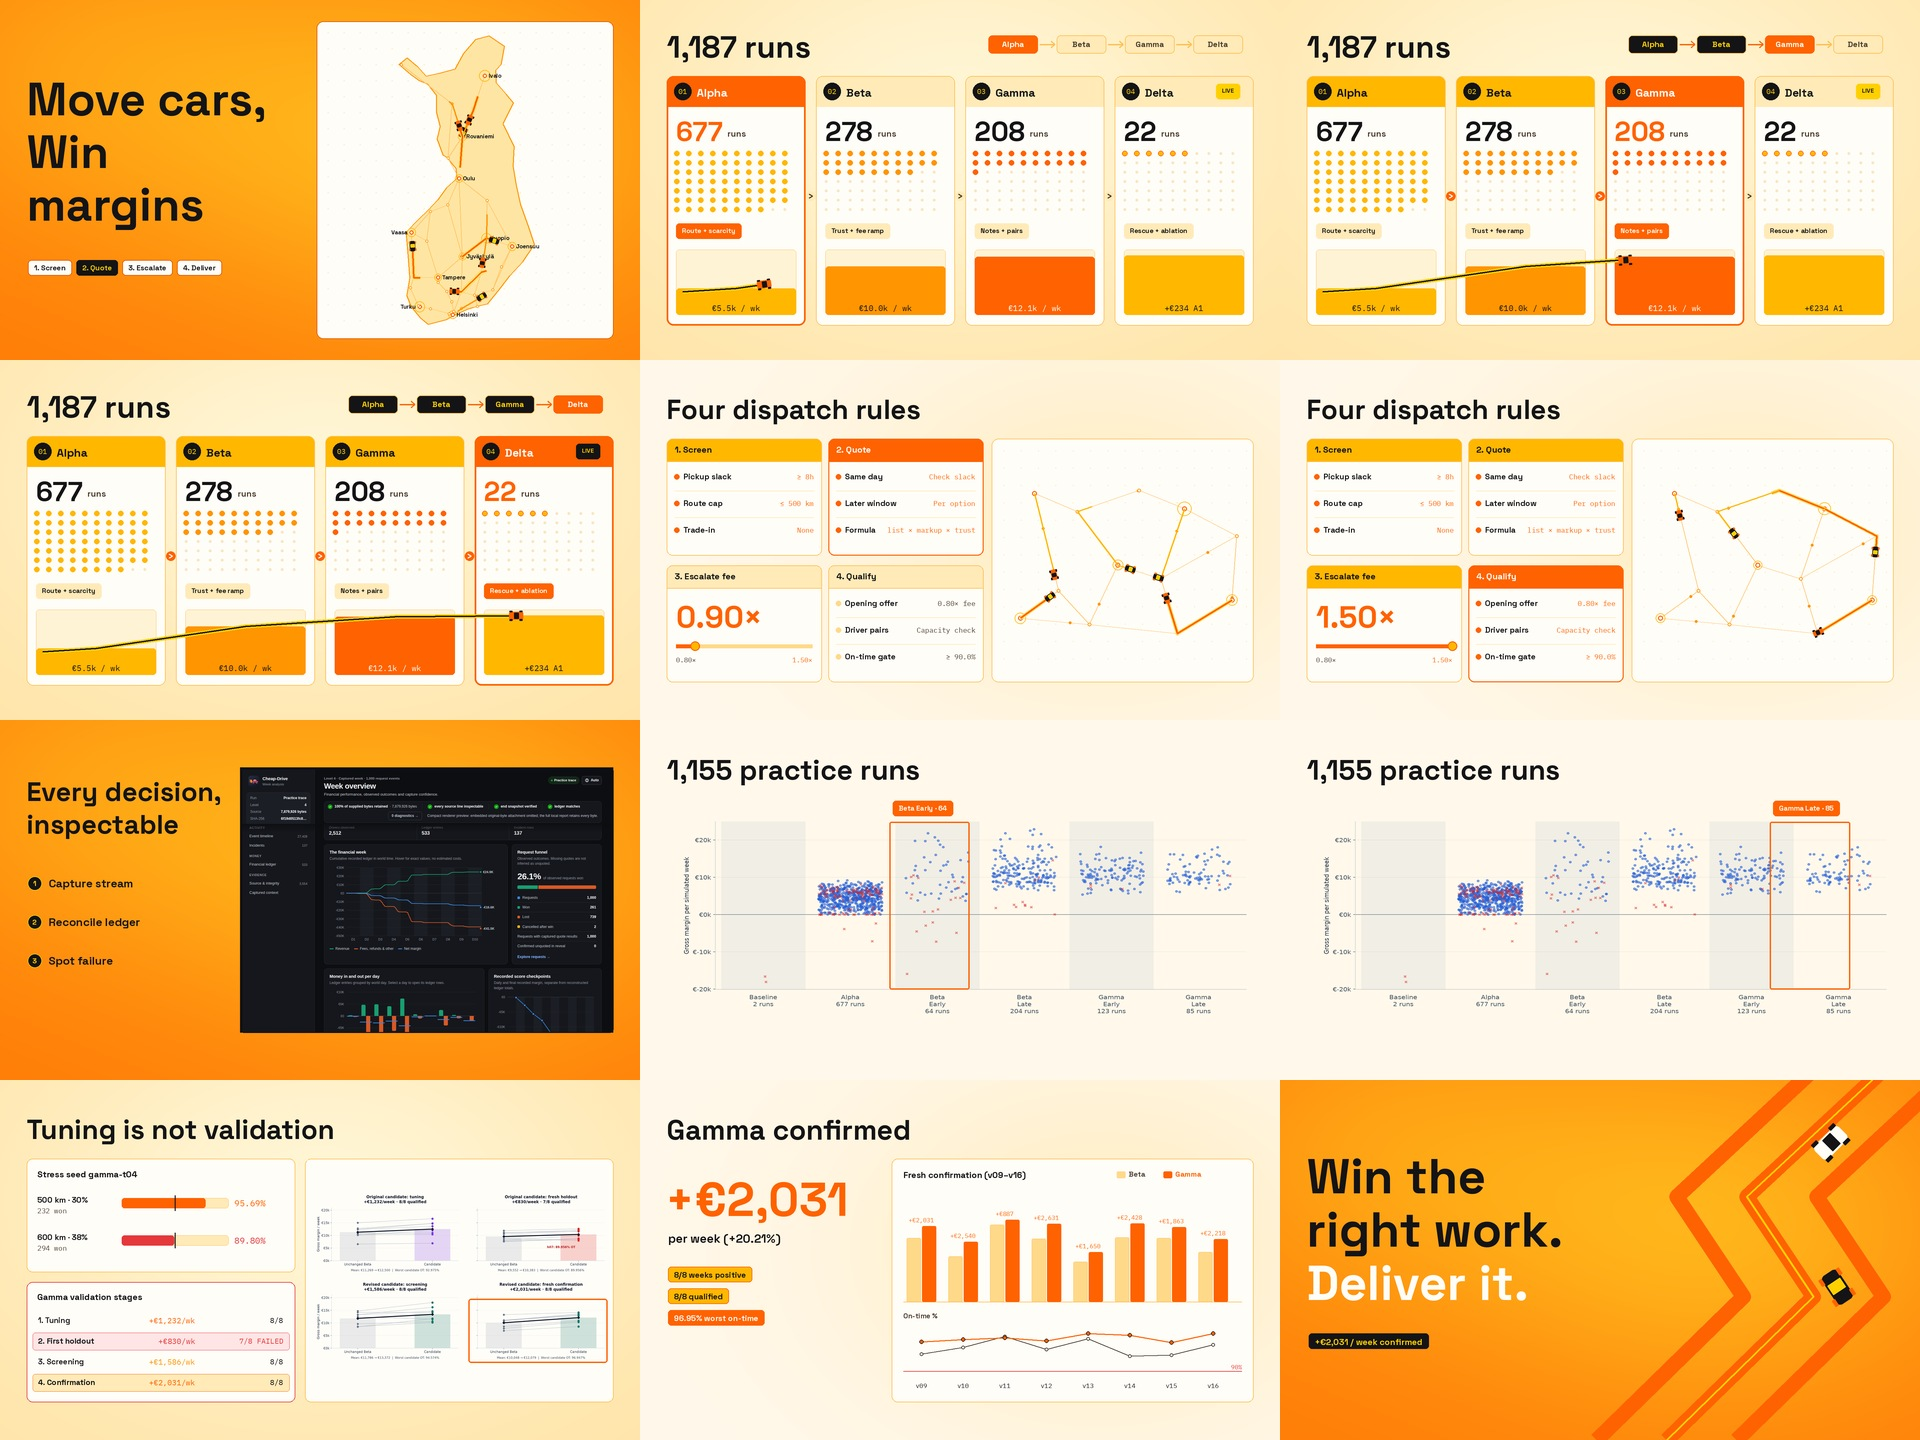
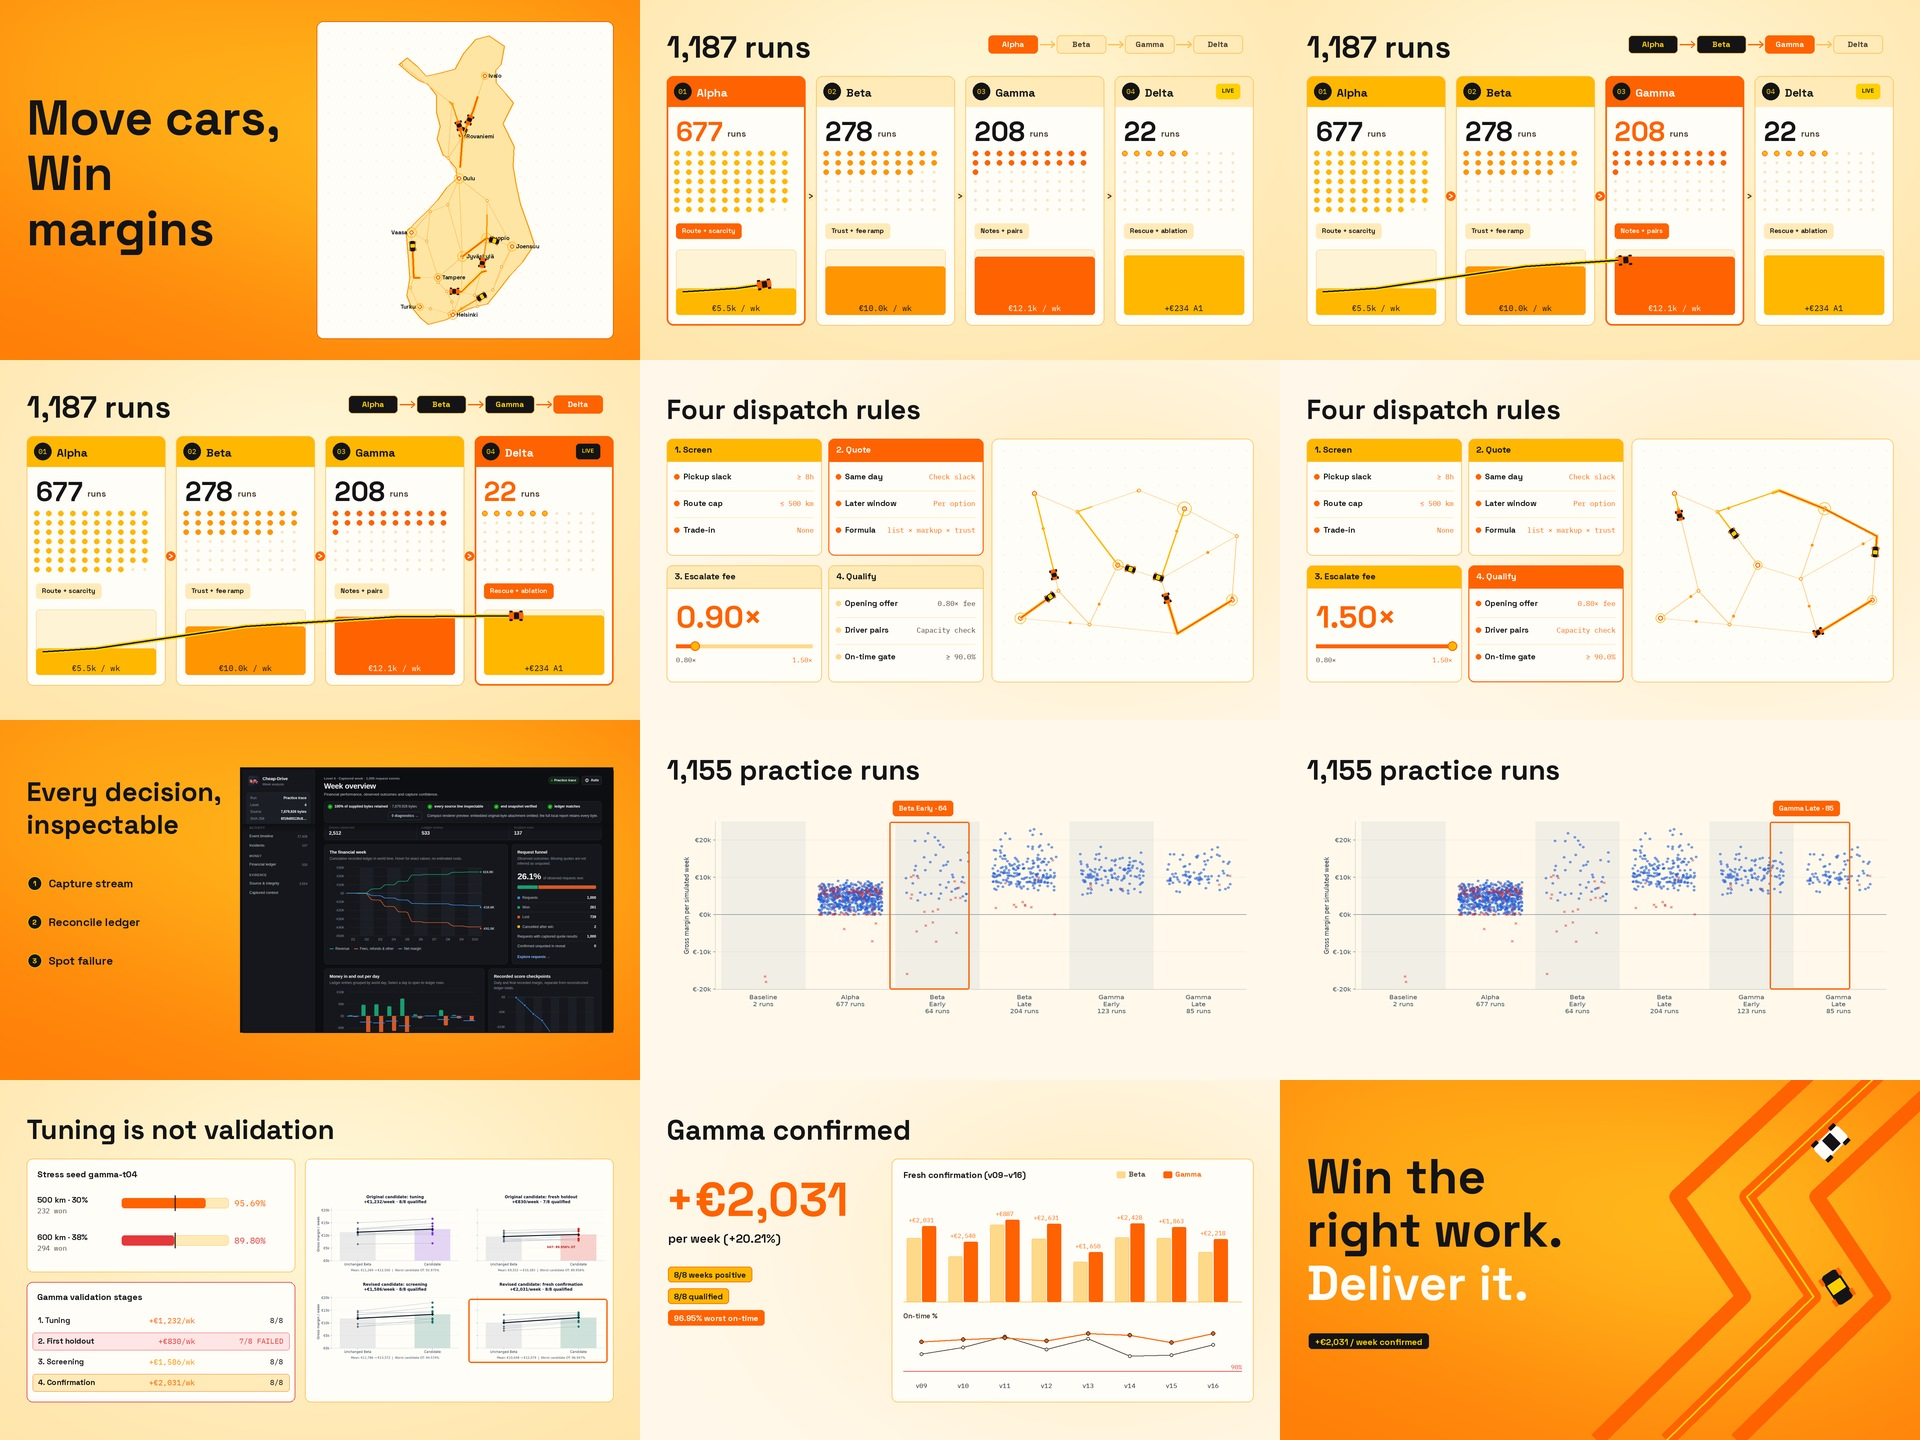
style(demo-video): remove step buttons from opening slide

Changed region(s): [[0.0, 0.0625, 0.1562, 0.2188]]

diff --git a/docs/demo-video/render.py b/docs/demo-video/render.py
@@ -411,17 +411,9 @@ def finland_map(im, t, box=(820, 80, 1840, 1000), zoom_south=False, bg=CARD, bor
 def hero(t):
     im = base_canvas('juicy').copy()
     finland_map(im, t, (950, 64, 1840, 1016), zoom_south=False, bg=CARD, border='#E05500')
-    enter(im, 'Move cars,', 80, 210, 138, t, .05, color=INK, weight=700)
-    enter(im, 'Win', 80, 368, 138, t, .16, color=INK, weight=700)
-    enter(im, 'margins', 80, 526, 138, t, .26, color=INK, weight=700)
-    if t > .45:
-        steps = ['1. Screen', '2. Quote', '3. Escalate', '4. Deliver']
-        xx = 84
-        active_step = min(3, int((t - .45) / 0.95))
-        for i, s in enumerate(steps):
-            is_act = i == active_step
-            w = badge(im, s, xx, 780, color=SUNBURST if is_act else INK, bg=INK if is_act else CARD, border=None if is_act else '#E05500', size=22)
-            xx += w + 14
+    enter(im, 'Move cars,', 80, 260, 146, t, .05, color=INK, weight=700)
+    enter(im, 'Win', 80, 426, 146, t, .16, color=INK, weight=700)
+    enter(im, 'margins', 80, 592, 146, t, .26, color=INK, weight=700)
     return im
 
 
